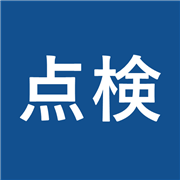
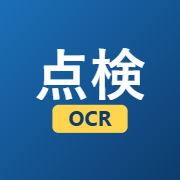
アプリとしてインストールできるように：専用アイコン、マニフェスト整備、インストールの案内（Android/PCはボタン、iPhoneは手順）

diff --git a/src/common/install.js b/src/common/install.js
@@ -1,0 +1,154 @@
+/* =============================================================================
+ * install.js  ―― 「アプリとしてインストール」の案内
+ * -----------------------------------------------------------------------------
+ * ホーム画面に追加すると、アプリのように1タップで開け、全画面で使えます。
+ *
+ *   Android（Chrome）・パソコン（Chrome / Edge）
+ *     … ブラウザが「インストールできます」と知らせてくれる（beforeinstallprompt）。
+ *       その合図を受け取っておき、ボタンを押したら標準のインストール画面を出す。
+ *   iPhone / iPad
+ *     … ボタンでのインストールはできない仕組みなので、
+ *       「共有ボタン →『ホーム画面に追加』」の手順を図で案内する。
+ *   すでにアプリとして開いているとき … 案内は出さない。
+ * ========================================================================== */
+
+(function (global) {
+  'use strict';
+
+  const VIS = global.VIS = global.VIS || {};
+  const DISMISS_KEY = 'vis-ocr-install-dismissed';
+  let deferred = null;          // ブラウザから受け取ったインストールの合図
+  const listeners = new Set();
+  const notify = () => listeners.forEach(fn => { try { fn(); } catch (e) { /* ignore */ } });
+
+  global.addEventListener('beforeinstallprompt', e => {
+    e.preventDefault();         // ブラウザ任せの表示はやめ、こちらのボタンから出す
+    deferred = e;
+    notify();
+  });
+  global.addEventListener('appinstalled', () => {
+    deferred = null;
+    if (VIS.util) VIS.util.toast('アプリとしてインストールしました。ホーム画面から開けます', 'ok');
+    notify();
+  });
+
+  /** アプリとして（ホーム画面から）開いているか */
+  function isStandalone() {
+    return (global.matchMedia && global.matchMedia('(display-mode: standalone)').matches) ||
+           global.navigator.standalone === true;
+  }
+
+  /** 'ios' | 'android' | 'desktop' */
+  function platform() {
+    const ua = global.navigator.userAgent || '';
+    const iPadOS = global.navigator.platform === 'MacIntel' && global.navigator.maxTouchPoints > 1;
+    if (/iPhone|iPad|iPod/.test(ua) || iPadOS) return 'ios';
+    if (/Android/.test(ua)) return 'android';
+    return 'desktop';
+  }
+
+  function state() {
+    const ua = global.navigator.userAgent || '';
+    return {
+      standalone: isStandalone(),
+      canPrompt: !!deferred,
+      platform: platform(),
+      iosOtherBrowser: /CriOS|FxiOS|EdgiOS/.test(ua)    // iPhoneのChromeなど（Safariの方が確実）
+    };
+  }
+
+  /** インストール画面を出す。'accepted' | 'dismissed' | 'unavailable' */
+  async function prompt() {
+    if (!deferred) return 'unavailable';
+    const ev = deferred;
+    deferred = null;
+    ev.prompt();
+    let outcome = 'dismissed';
+    try { outcome = (await ev.userChoice).outcome; } catch (e) { /* ignore */ }
+    notify();
+    return outcome;
+  }
+
+  const ICON_SHARE = '<svg viewBox="0 0 24 24" width="20" height="20" aria-hidden="true" style="vertical-align:-4px"><path fill="currentColor" d="M12 2 7.5 6.5l1.4 1.4L11 5.8V15h2V5.8l2.1 2.1 1.4-1.4L12 2zM5 10v10a2 2 0 0 0 2 2h10a2 2 0 0 0 2-2V10h-3v2h1v8H7v-8h1v-2H5z"/></svg>';
+  const ICON_ADD = '<svg viewBox="0 0 24 24" width="20" height="20" aria-hidden="true" style="vertical-align:-4px"><path fill="currentColor" d="M5 3h14a2 2 0 0 1 2 2v14a2 2 0 0 1-2 2H5a2 2 0 0 1-2-2V5a2 2 0 0 1 2-2zm0 2v14h14V5H5zm6 2h2v4h4v2h-4v4h-2v-4H7v-2h4V7z"/></svg>';
+
+  /**
+   * 案内を描く。
+   * @param {HTMLElement} box 描く場所
+   * @param {{dismissible?:boolean, showInstalled?:boolean}} opts
+   *   dismissible   … 「今は表示しない」を付ける（トップ画面用）
+   *   showInstalled … アプリとして開いているときも「インストール済み」と表示する（設定画面用）
+   */
+  function render(box, opts) {
+    opts = opts || {};
+    const draw = () => {
+      const st = state();
+      let dismissed = false;
+      try { dismissed = opts.dismissible && localStorage.getItem(DISMISS_KEY) === '1'; } catch (e) { /* ignore */ }
+
+      if (st.standalone) {
+        box.hidden = !opts.showInstalled;
+        box.innerHTML = opts.showInstalled
+          ? '<h2>アプリとして使う</h2><p class="small" style="margin:0">インストール済みです（アプリとして開いています）。</p>' : '';
+        return;
+      }
+      if (dismissed) { box.hidden = true; return; }
+
+      let body = '';
+      if (st.canPrompt) {
+        body = `
+          <p class="small muted">ホーム画面から1タップで開けるようになり、電波の無い所でも使えます。</p>
+          <button type="button" class="btn" data-install>アプリとしてインストール</button>`;
+      } else if (st.platform === 'ios') {
+        body = `
+          <p class="small muted">ホーム画面に追加すると、アプリのように1タップで開けます。</p>
+          <ol class="install-steps">
+            <li>画面${/iPad/.test(navigator.userAgent) || navigator.maxTouchPoints > 1 && navigator.platform === 'MacIntel' ? '上' : '下'}の <b>共有ボタン</b> ${ICON_SHARE} を押す
+              <span class="muted">（見当たらないときは「…」を押すと出てきます）</span></li>
+            <li>メニューを下へずらして <b>「ホーム画面に追加」</b> ${ICON_ADD} を押す</li>
+            <li>右上の <b>「追加」</b> を押す</li>
+          </ol>
+          ${st.iosOtherBrowser ? '<p class="small" style="margin:6px 0 0">うまくいかないときは、このページを <b>Safari</b> で開いてから行ってください。</p>' : ''}
+          <p class="small muted" style="margin:8px 0 0">※ iPhoneでは、ホーム画面のアプリとSafariとで記録が別々に保存されます。
+            点検はホーム画面のアプリで行ってください（設定 →「今すぐ準備する」もアプリで1回）。</p>`;
+      } else if (st.platform === 'android') {
+        body = `
+          <p class="small muted">ホーム画面から1タップで開けるようになり、電波の無い所でも使えます。</p>
+          <ol class="install-steps">
+            <li>右上の <b>メニュー（︙）</b> を押す</li>
+            <li><b>「アプリをインストール」</b>（または「ホーム画面に追加」）を押す</li>
+          </ol>`;
+      } else {
+        body = `
+          <p class="small muted">パソコンでも、アプリとして別の窓で開けます。</p>
+          <ol class="install-steps">
+            <li>アドレスバーの右にある <b>インストール</b> のマーク、またはメニューを押す</li>
+            <li><b>「アプリをインストール」</b> を押す</li>
+          </ol>`;
+      }
+      box.hidden = false;
+      box.innerHTML = `<h2>アプリとしてインストール</h2>${body}
+        ${opts.dismissible ? '<button type="button" class="link-btn" data-install-dismiss style="margin-top:6px">今は表示しない</button>' : ''}`;
+    };
+
+    box.addEventListener('click', async e => {
+      if (e.target.closest('[data-install]')) {
+        const outcome = await prompt();
+        if (outcome === 'unavailable' && VIS.util) VIS.util.toast('このブラウザのメニューから「アプリをインストール」を選んでください', 'warn');
+        draw();
+      } else if (e.target.closest('[data-install-dismiss]')) {
+        try { localStorage.setItem(DISMISS_KEY, '1'); } catch (err) { /* ignore */ }
+        box.hidden = true;
+      }
+    });
+    listeners.add(draw);
+    if (global.matchMedia) {
+      const mq = global.matchMedia('(display-mode: standalone)');
+      if (mq.addEventListener) mq.addEventListener('change', draw);
+    }
+    draw();
+  }
+
+  VIS.install = { state, prompt, render, isStandalone, platform };
+
+})(window);

diff --git a/settings.html b/settings.html
@@ -11,8 +11,8 @@
 <meta name="apple-mobile-web-app-status-bar-style" content="black-translucent">
 <meta name="apple-mobile-web-app-title" content="点検OCR">
 <meta name="format-detection" content="telephone=no">
-<link rel="icon" href="icons/icon-192.png">
-<link rel="apple-touch-icon" href="icons/apple-touch-icon.png">
+<link rel="icon" type="image/png" sizes="32x32" href="icons/favicon-32.png">
+<link rel="apple-touch-icon" sizes="180x180" href="icons/apple-touch-icon.png">
 <title>設定 - 車両法定点検（OCR版）</title>
 <link rel="manifest" href="manifest.webmanifest">
 <link rel="stylesheet" href="css/style.css">
@@ -25,6 +25,8 @@
 </div>
 
 <main>
+  <section class="card install-card" id="install-card" hidden></section>
+
   <section class="card">
     <h2>いつも使う入力値</h2>
     <p class="small muted">点検入力の画面に最初から入れておく値です（点検を保存すると自動で更新されます）。</p>
@@ -104,6 +106,7 @@
 <script src="src/storage/storageFactory.js"></script><script src="src/ocr/ocrParser.js"></script>
 <script src="vendor/tesseract/tesseract.min.js"></script>
 <script src="src/ocr/ocrEngine.js"></script>
+<script src="src/common/install.js"></script>
 <script src="src/pages/settings.js"></script>
 </body>
 </html>

diff --git a/index.html b/index.html
@@ -11,8 +11,8 @@
 <meta name="apple-mobile-web-app-status-bar-style" content="black-translucent">
 <meta name="apple-mobile-web-app-title" content="点検OCR">
 <meta name="format-detection" content="telephone=no">
-<link rel="icon" href="icons/icon-192.png">
-<link rel="apple-touch-icon" href="icons/apple-touch-icon.png">
+<link rel="icon" type="image/png" sizes="32x32" href="icons/favicon-32.png">
+<link rel="apple-touch-icon" sizes="180x180" href="icons/apple-touch-icon.png">
 <title>車両法定点検（OCR版）</title>
 <link rel="manifest" href="manifest.webmanifest">
 <link rel="stylesheet" href="css/style.css">
@@ -24,6 +24,8 @@
 </div>
 
 <main>
+  <div class="card install-card" id="install-card" hidden></div>
+
   <div class="card">
     <h2>QRコードを読み取ってください</h2>
     <p class="small muted">
@@ -65,6 +67,7 @@
 <script src="src/storage/LocalStorageAdapter.js"></script>
 <script src="src/storage/storageFactory.js"></script><script src="vendor/html5-qrcode.min.js"></script>
 <script src="src/qr/scanner.js"></script>
+<script src="src/common/install.js"></script>
 <script src="src/pages/common-list.js"></script>
 <script src="src/pages/index.js"></script>
 </body>

diff --git a/qr-check.html b/qr-check.html
@@ -7,7 +7,7 @@
 <meta http-equiv="Content-Security-Policy" content="default-src 'self'; script-src 'self' 'wasm-unsafe-eval'; style-src 'self' 'unsafe-inline'; img-src 'self' blob: data:; media-src 'self' blob: mediastream:; connect-src 'self' blob: data:; worker-src 'self' blob:; object-src 'none'; base-uri 'self'; form-action 'none'">
 <meta name="theme-color" content="#12508f">
 <meta name="format-detection" content="telephone=no">
-<link rel="icon" href="icons/icon-192.png">
+<link rel="icon" type="image/png" sizes="32x32" href="icons/favicon-32.png">
 <title>車検証QRテスト - 車両法定点検（OCR版）</title>
 <link rel="stylesheet" href="css/style.css">
 <style>

diff --git a/view.html b/view.html
@@ -11,8 +11,8 @@
 <meta name="apple-mobile-web-app-status-bar-style" content="black-translucent">
 <meta name="apple-mobile-web-app-title" content="点検OCR">
 <meta name="format-detection" content="telephone=no">
-<link rel="icon" href="icons/icon-192.png">
-<link rel="apple-touch-icon" href="icons/apple-touch-icon.png">
+<link rel="icon" type="image/png" sizes="32x32" href="icons/favicon-32.png">
+<link rel="apple-touch-icon" sizes="180x180" href="icons/apple-touch-icon.png">
 <title>点検記録簿 - 車両法定点検（OCR版）</title>
 <link rel="manifest" href="manifest.webmanifest">
 <link rel="stylesheet" href="css/style.css">

diff --git a/inspect.html b/inspect.html
@@ -11,8 +11,8 @@
 <meta name="apple-mobile-web-app-status-bar-style" content="black-translucent">
 <meta name="apple-mobile-web-app-title" content="点検OCR">
 <meta name="format-detection" content="telephone=no">
-<link rel="icon" href="icons/icon-192.png">
-<link rel="apple-touch-icon" href="icons/apple-touch-icon.png">
+<link rel="icon" type="image/png" sizes="32x32" href="icons/favicon-32.png">
+<link rel="apple-touch-icon" sizes="180x180" href="icons/apple-touch-icon.png">
 <title>点検入力 - 車両法定点検（OCR版）</title>
 <link rel="manifest" href="manifest.webmanifest">
 <link rel="stylesheet" href="css/style.css">

diff --git a/sw.js b/sw.js
@@ -9,7 +9,7 @@
  * ========================================================================== */
 
 const CACHE_PREFIX  = 'vis-ocr-';
-const CACHE_VERSION = CACHE_PREFIX + 'v6';
+const CACHE_VERSION = CACHE_PREFIX + 'v7';
 
 /** オフラインでも必ず動くよう、先に取っておくファイル */
 const PRECACHE = [
@@ -27,6 +27,9 @@ const PRECACHE = [
   'icons/icon-192.png',
   'icons/icon-512.png',
   'icons/apple-touch-icon.png',
+  'icons/icon-maskable-512.png',
+  'icons/favicon-32.png',
+  'src/common/install.js',
   'src/common/util.js',
   'src/storage/StorageAdapter.js',
   'src/storage/LocalStorageAdapter.js',

diff --git a/vehicle.html b/vehicle.html
@@ -11,8 +11,8 @@
 <meta name="apple-mobile-web-app-status-bar-style" content="black-translucent">
 <meta name="apple-mobile-web-app-title" content="点検OCR">
 <meta name="format-detection" content="telephone=no">
-<link rel="icon" href="icons/icon-192.png">
-<link rel="apple-touch-icon" href="icons/apple-touch-icon.png">
+<link rel="icon" type="image/png" sizes="32x32" href="icons/favicon-32.png">
+<link rel="apple-touch-icon" sizes="180x180" href="icons/apple-touch-icon.png">
 <title>車両 - 車両法定点検（OCR版）</title>
 <link rel="manifest" href="manifest.webmanifest">
 <link rel="stylesheet" href="css/style.css">

diff --git a/css/style.css b/css/style.css
@@ -454,3 +454,9 @@ input.qr-filled { background: #eef8f0; border-color: #86c596; }
   padding: 8px 12px; border-radius: 10px; background: rgba(0,0,0,.65); color: #fff;
   font-size: 14px; line-height: 1.6; text-align: center; white-space: pre-line;
 }
+/* アプリとしてインストールの案内 */
+.install-card { border-color: #cfe0f0; background: #f5f9fd; }
+.install-card h2 { margin-bottom: 6px; }
+.install-card .btn { margin-bottom: 0; }
+ol.install-steps { margin: 6px 0 0; padding-left: 1.4em; font-size: 15px; line-height: 1.9; }
+ol.install-steps svg { color: var(--primary); }

diff --git a/src/pages/index.js b/src/pages/index.js
@@ -6,6 +6,8 @@
  * ========================================================================== */
 (async function () {
   const VIS = window.VIS, util = VIS.util, $ = util.$;
+  // アプリとしてインストールの案内（アプリとして開いているときは出ない）
+  VIS.install.render($('#install-card'), { dismissible: true });
   await VIS.ready();
 
   // この端末の点検記録（新しい順に10件）

diff --git a/src/pages/settings.js b/src/pages/settings.js
@@ -6,6 +6,7 @@
  * ========================================================================== */
 (async function () {
   const VIS = window.VIS, util = VIS.util, $ = util.$;
+  VIS.install.render($('#install-card'), { showInstalled: true });
   await VIS.ready();
   $('#ver').textContent = 'v' + VIS.config.appVersion;
 
